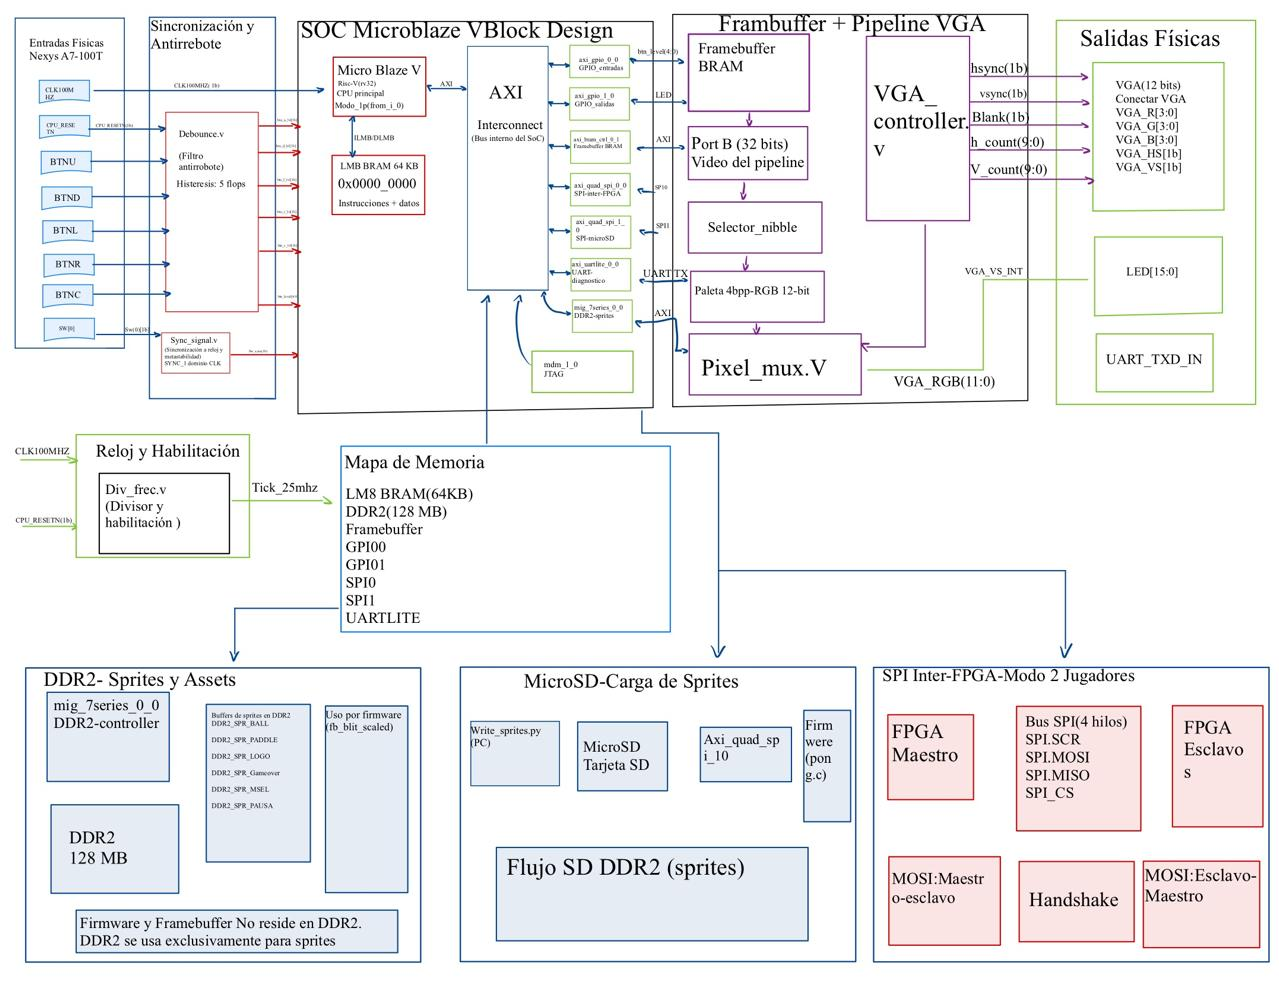
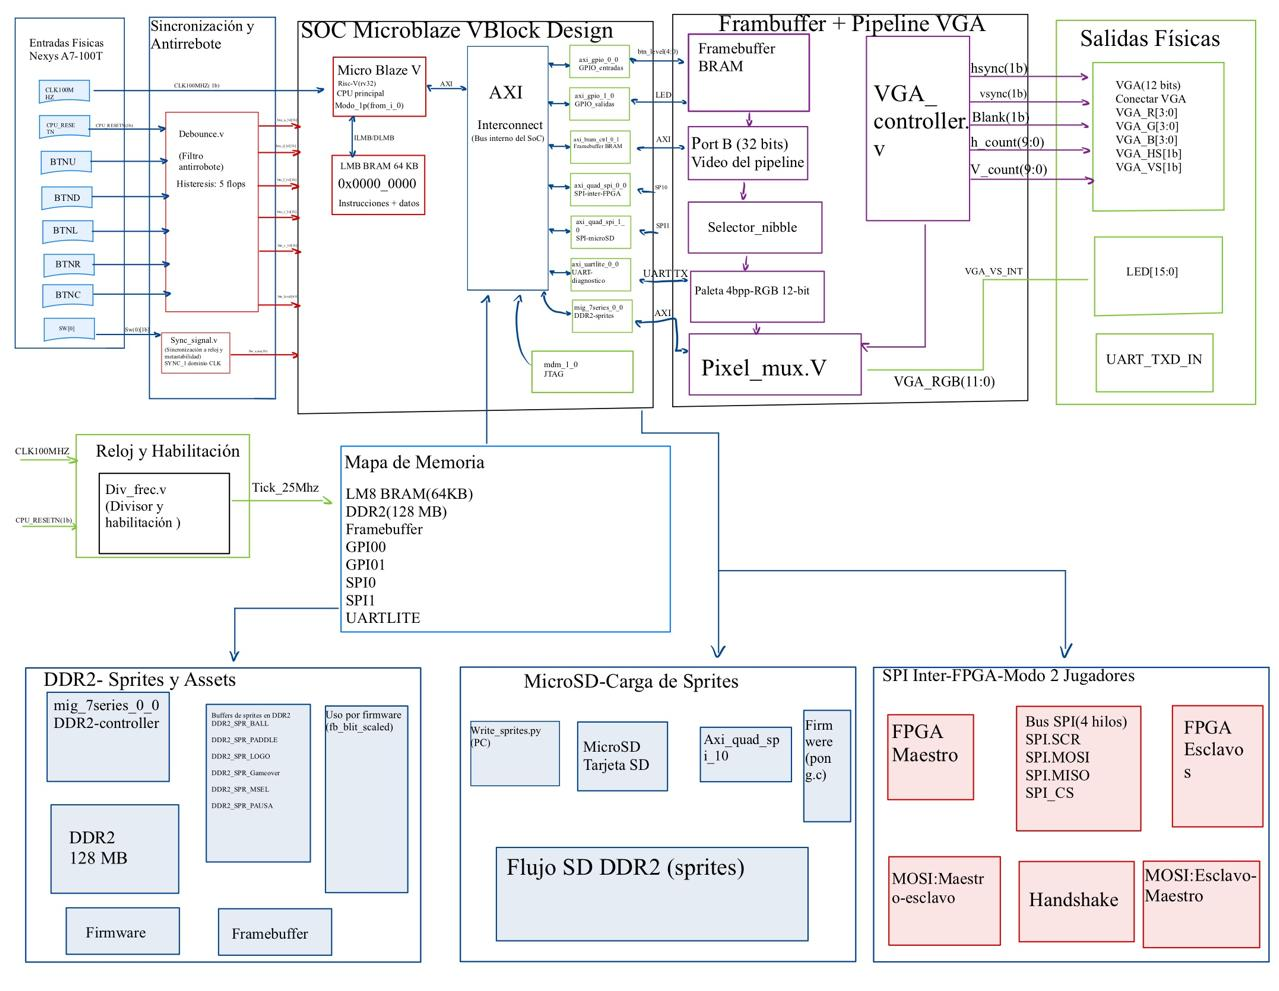
docs: actualizar diagrama de bloques, links de repositorio y video
- Reemplaza docs/Diagrama_bloques.jpeg con versión corregida
- Convierte URL del repositorio a link clicable en sección 20
- Agrega link del video explicativo en sección 20

Changed region(s): [[0.0305, 0.9082, 0.3354, 0.9687]]

diff --git a/README.md b/README.md
@@ -992,7 +992,9 @@ pip install Pillow
 
 ## 20. Repositorio público
 
-`https://github.com/JustinAlfaro/ping_pong_game_project`
+[https://github.com/JustinAlfaro/ping_pong_game_project](https://github.com/JustinAlfaro/ping_pong_game_project)
+
+**Video explicativo:** [https://youtu.be/P1XJVjYdZMU](https://youtu.be/P1XJVjYdZMU)
 
 ---
 